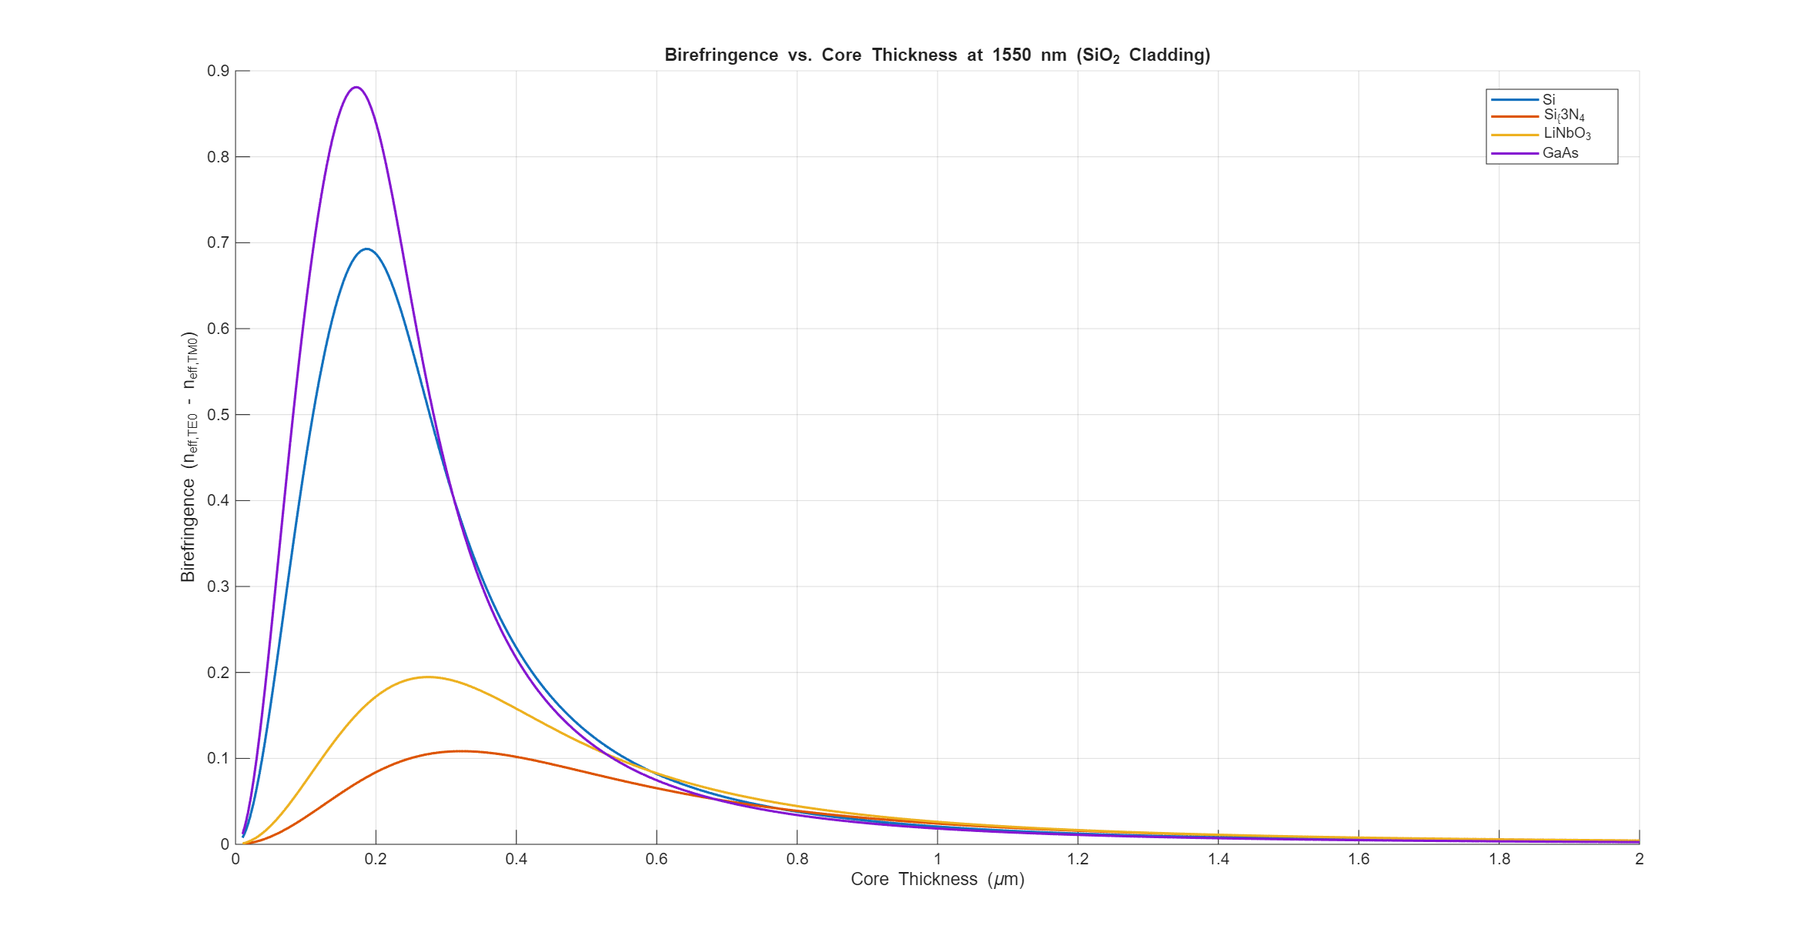
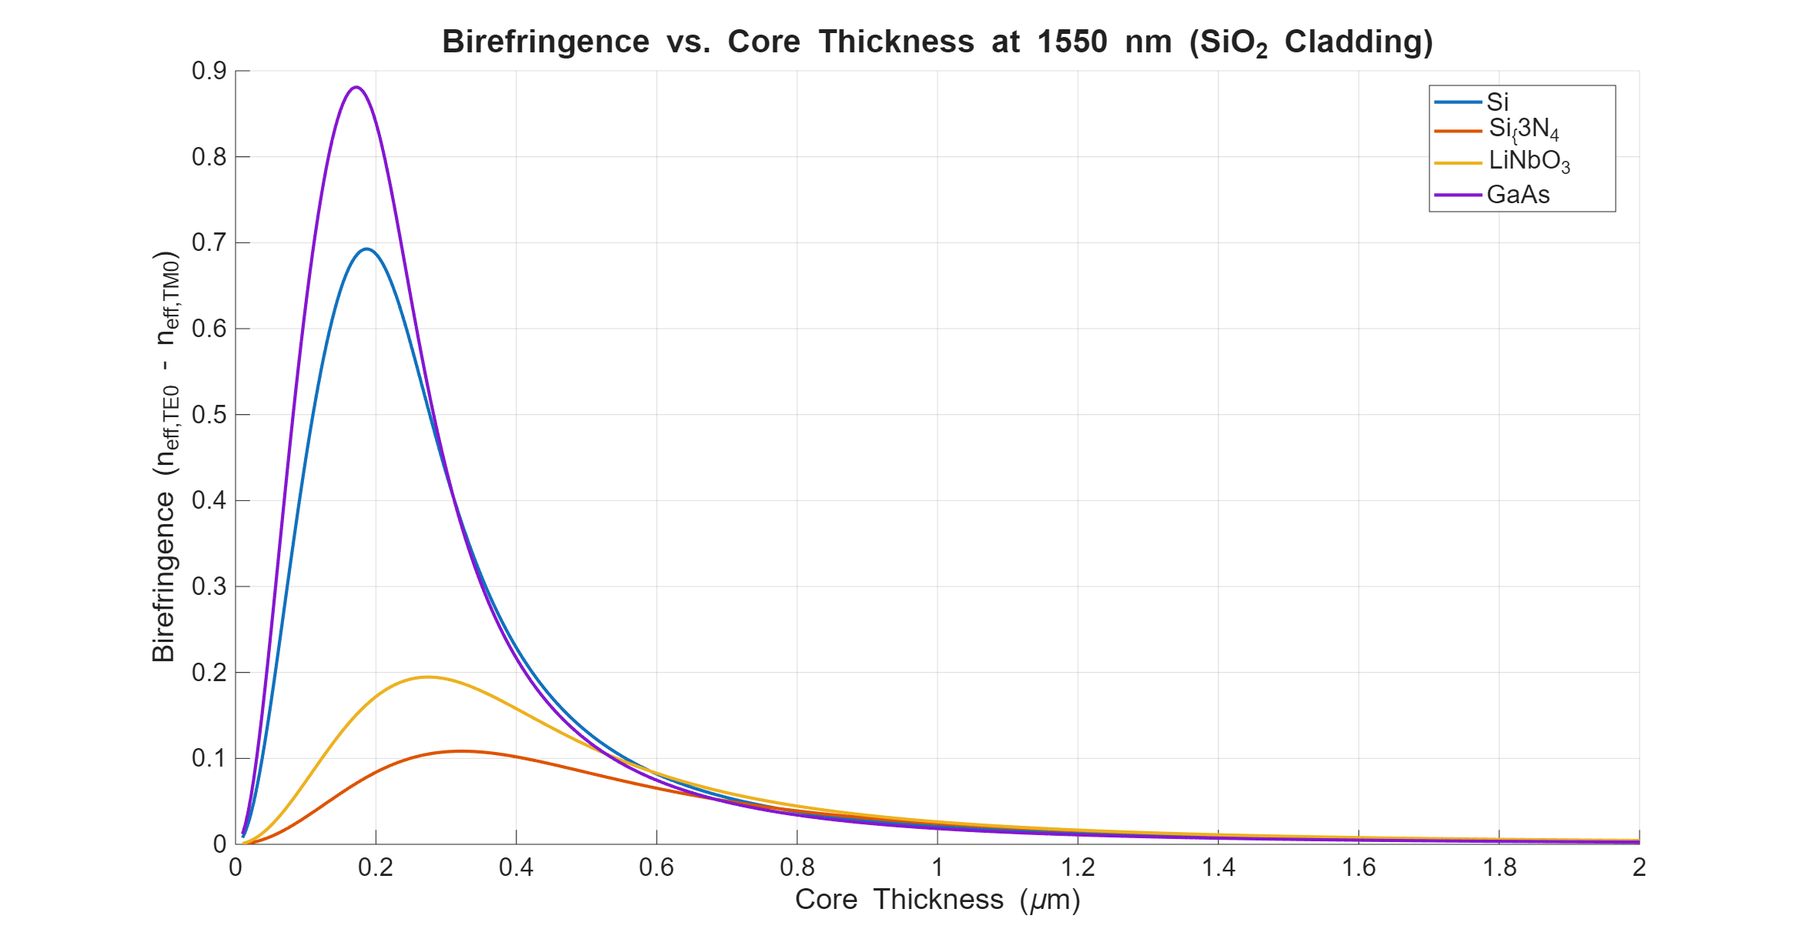
Draft interim report

diff --git a/task1.m b/task1.m
@@ -9,6 +9,9 @@ if ~exist(output_dir, 'dir')
     mkdir(output_dir);
 end
 
+% Define default line width for all plots
+defaultLineWidth = 2; % Increased line width
+
 lambda = 1550e-9; % wavelength in meters
 n_Si = sb4.get_n('Si', lambda);
 n_SiO2 = sb4.get_n('SiO2', lambda);
@@ -26,13 +29,13 @@ thicknesses = 200e-9:100e-9:1e-6; % core thicknesses from 200 nm to 1 μm
 num_modes_Si = sb4.planar.find_num_modes(n_Si, n_SiO2, thicknesses, lambda);
 
 figure;
-plot(thicknesses * 1e6, num_modes_Si, '-o');
-ax = gca; ax.FontSize = 12; % Base font size for ticks
-xlabel('Core Thickness (μm)', 'FontSize', 14);
-ylabel('Number of Supported Modes', 'FontSize', 14);
-title('Supported Modes vs Core Thickness for SOI Waveguide at 1550 nm', 'FontSize', 16);
+plot(thicknesses * 1e6, num_modes_Si, '-o', 'LineWidth', defaultLineWidth);
+ax = gca; ax.FontSize = 16; % Base font size for ticks
+xlabel('Core Thickness (μm)', 'FontSize', 18);
+ylabel('Number of Supported Modes', 'FontSize', 18);
+title('Supported Modes vs Core Thickness for SOI Waveguide at 1550 nm', 'FontSize', 20);
 grid on;
-legend('1550 nm', 'FontSize', 12);
+legend('1550 nm', 'FontSize', 16);
 saveas(gcf, fullfile(output_dir, 'modes_vs_thickness_SOI_1550nm.png'));
 
 % Repeat the above analysis using different waveguide core materials (e.g.,
@@ -49,16 +52,18 @@ num_modes_SiN = sb4.planar.find_num_modes(n_SiN, n_SiO2, thicknesses, lambda);
 num_modes_LiNbO3 = sb4.planar.find_num_modes(n_LiNbO3, n_SiO2, thicknesses, lambda);
 num_modes_GaAs = sb4.planar.find_num_modes(n_GaAs, n_SiO2, thicknesses, lambda);
 figure;
-plot(thicknesses * 1e6, num_modes_Si, '-o', ...
-    thicknesses * 1e6, num_modes_SiN, '-o', ...
-    thicknesses * 1e6, num_modes_LiNbO3, '-x', ...
-    thicknesses * 1e6, num_modes_GaAs, '-s');
-ax = gca; ax.FontSize = 12;
-xlabel('Core Thickness (μm)', 'FontSize', 14);
-ylabel('Number of Supported Modes', 'FontSize', 14);
-title('Supported Modes vs Core Thickness for Different Materials at 1550 nm', 'FontSize', 16);
+plot(thicknesses * 1e6, num_modes_Si, '-o', 'LineWidth', defaultLineWidth);
+hold on; % Ensure subsequent plots are on the same axes
+plot(thicknesses * 1e6, num_modes_SiN, '-o', 'LineWidth', defaultLineWidth);
+plot(thicknesses * 1e6, num_modes_LiNbO3, '-x', 'LineWidth', defaultLineWidth);
+plot(thicknesses * 1e6, num_modes_GaAs, '-s', 'LineWidth', defaultLineWidth);
+hold off;
+ax = gca; ax.FontSize = 16;
+xlabel('Core Thickness (μm)', 'FontSize', 18);
+ylabel('Number of Supported Modes', 'FontSize', 18);
+title('Supported Modes vs Core Thickness for Different Materials at 1550 nm', 'FontSize', 20);
 grid on;
-legend('Si', 'Si3N4', 'LiNbO3', 'GaAs', 'FontSize', 12, 'Location', 'best');
+legend('Si', 'Si3N4', 'LiNbO3', 'GaAs', 'FontSize', 16, 'Location', 'best');
 saveas(gcf, fullfile(output_dir, 'modes_vs_thickness_materials_1550nm.png'));
 % The analysis shows that silicon nitride supports more modes than silicon
 % at the same core thickness, while lithium niobate supports fewer modes.
@@ -88,13 +93,18 @@ for j = 1:length(wavelengths)
     num_modes_all(:, j) = sb4.planar.find_num_modes(n_Si_loop, n_SiO2_loop, thicknesses, lambda_loop);
 end
 figure;
-plot(thicknesses * 1e6, num_modes_all, '-o');
-ax = gca; ax.FontSize = 12;
-xlabel('Core Thickness (μm)', 'FontSize', 14);
-ylabel('Number of Supported Modes', 'FontSize', 14);
-title('Supported Modes vs Core Thickness for SOI Waveguide at Different Wavelengths', 'FontSize', 16);
+% Plot each line separately to control LineWidth for all
+hold on;
+for j = 1:length(wavelengths)
+    plot(thicknesses * 1e6, num_modes_all(:,j), '-o', 'LineWidth', defaultLineWidth, 'DisplayName', sprintf('%.0f nm', wavelengths(j) * 1e9));
+end
+hold off;
+ax = gca; ax.FontSize = 16;
+xlabel('Core Thickness (μm)', 'FontSize', 18);
+ylabel('Number of Supported Modes', 'FontSize', 18);
+title('Supported Modes vs Core Thickness for SOI Waveguide at Different Wavelengths', 'FontSize', 20);
 grid on;
-legend(arrayfun(@(x) sprintf('%.0f nm', x * 1e9), wavelengths, 'UniformOutput', false), 'FontSize', 12, 'Location', 'best');
+legend(arrayfun(@(x) sprintf('%.0f nm', x * 1e9), wavelengths, 'UniformOutput', false), 'FontSize', 16, 'Location', 'best');
 saveas(gcf, fullfile(output_dir, 'modes_vs_thickness_SOI_wavelengths.png'));
 
 
@@ -131,17 +141,17 @@ thicknesses_plot_neff = linspace(10e-9, 2000e-9, 500); % 10 nm to 1000 nm, 200 p
 
 figure; % New figure for n_eff plots
 hold on;
-ax_neff = gca; ax_neff.FontSize = 12;
-xlabel('Core Thickness (\mum)', 'FontSize', 14);
-ylabel('Effective Index (n_{eff})', 'FontSize', 14);
-title(['Effective Index vs. Core Thickness for Si/SiO2 Waveguide at ', num2str(lambda_neff*1e9), ' nm'], 'FontSize', 16);
+ax_neff = gca; ax_neff.FontSize = 16;
+xlabel('Core Thickness (\mum)', 'FontSize', 18);
+ylabel('Effective Index (n_{eff})', 'FontSize', 18);
+title(['Effective Index vs. Core Thickness for Si/SiO2 Waveguide at ', num2str(lambda_neff*1e9), ' nm'], 'FontSize', 20);
 grid on;
 
 % Add horizontal lines for n_clad and n_core
 min_thick_um = min(thicknesses_plot_neff) * 1e6;
 max_thick_um = max(thicknesses_plot_neff) * 1e6;
-plot([min_thick_um max_thick_um], [n_clad_neff n_clad_neff], 'k:', 'LineWidth', 1, 'DisplayName', 'n_{SiO_2}');
-plot([min_thick_um max_thick_um], [n_core_neff n_core_neff], 'k--', 'LineWidth', 1, 'DisplayName', 'n_{Si}');
+plot([min_thick_um max_thick_um], [n_clad_neff n_clad_neff], 'k:', 'LineWidth', defaultLineWidth, 'DisplayName', 'n_{SiO_2}');
+plot([min_thick_um max_thick_um], [n_core_neff n_core_neff], 'k--', 'LineWidth', defaultLineWidth, 'DisplayName', 'n_{Si}');
 
 % Get some distinct colors for plotting modes
 num_colors_needed = 10; % Default, adjust if many modes are expected
@@ -191,7 +201,7 @@ for m = 0:max_m_TE_neff
         plot(thicknesses_plot_neff(first_valid_idx_TE:end) * 1e6, ...
             current_neff_values_TE(first_valid_idx_TE:end), ...
             'Color', plot_colors(mod(m, num_colors_needed)+1,:), ...
-            'LineWidth', 1.5, ...
+            'LineWidth', defaultLineWidth, ...
             'DisplayName', sprintf('TE_%d', m));
     end
 end
@@ -220,14 +230,14 @@ for m = 0:max_m_TM_neff
         plot(thicknesses_plot_neff(first_valid_idx_TM:end) * 1e6, ...
             current_neff_values_TM(first_valid_idx_TM:end), ...
             '--', 'Color', plot_colors(mod(m, num_colors_needed)+1,:), ... % Dashed line for TM modes
-            'LineWidth', 1.5, ...
+            'LineWidth', defaultLineWidth, ...
             'DisplayName', sprintf('TM_%d', m));
     end
 end
 
 % Finalize plot
 ylim([n_clad_neff - 0.05, n_core_neff + 0.05]); % Set y-axis limits for better visualization
-legend('show', 'Location', 'southeast', 'FontSize', 12); % Display legend
+legend('show', 'Location', 'southeast', 'FontSize', 16); % Display legend
 hold off;
 saveas(gcf, fullfile(output_dir, 'neff_vs_thickness_Si_SiO2_1550nm.png'));
 
@@ -279,23 +289,23 @@ end
 
 figure;
 hold on;
-ax_crit_thick_modes = gca; ax_crit_thick_modes.FontSize = 12;
+ax_crit_thick_modes = gca; ax_crit_thick_modes.FontSize = 16;
 plot_colors_critical = lines(length(m_values)); % Get distinct colors
 
 for i = 1:length(m_values)
-    m = m_values(i);
+    m_loop = m_values(i); % Renamed m to m_loop to avoid conflict
     plot(plot_wavelengths * 1e9, critical_thicknesses_all_modes(i, :) * 1e9, ...
         'Color', plot_colors_critical(i,:), ...
-        'LineWidth', 1.5, ...
-        'DisplayName', sprintf('m = %d (TE_{%d}/TM_{%d})', m, m, m));
+        'LineWidth', defaultLineWidth, ...
+        'DisplayName', sprintf('m = %d (TE_{%d}/TM_{%d})', m_loop, m_loop, m_loop));
 end
 
-xlabel('Wavelength (nm)', 'FontSize', 14);
-ylabel('Critical Core Thickness (nm)', 'FontSize', 14);
-title('Critical Thickness vs. Wavelength for Si/SiO_2 Waveguide', 'FontSize', 16);
+xlabel('Wavelength (nm)', 'FontSize', 18);
+ylabel('Critical Core Thickness (nm)', 'FontSize', 18);
+title('Critical Thickness vs. Wavelength for Si/SiO_2 Waveguide', 'FontSize', 20);
 grid on;
-legend('show', 'Location', 'northwest', 'FontSize', 12);
-ylim([0, max(critical_thicknesses_all_modes(:), [], 'omitnan') * 1e9 * 1.1 + 10]); % Adjust y-limit for better view, add 10nm buffer
+legend('show', 'Location', 'northwest', 'FontSize', 16);
+ylim([0, max(critical_thicknesses_all_modes(:), [], 'omitnan') * 1e9 * 1.1]); % Adjust y-limit for better view, add 10nm buffer
 hold off;
 saveas(gcf, fullfile(output_dir, 'critical_thickness_vs_wavelength.png'));
 
@@ -334,7 +344,7 @@ end
 
 figure;
 hold on;
-ax_crit_thick_mat = gca; ax_crit_thick_mat.FontSize = 12;
+ax_crit_thick_mat = gca; ax_crit_thick_mat.FontSize = 16;
 plot_colors_multimode_materials = lines(length(core_materials)); % Get distinct colors
 
 for k = 1:length(core_materials)
@@ -345,16 +355,16 @@ for k = 1:length(core_materials)
     end
 
     plot(plot_wavelengths * 1e9, critical_thickness_multimode_materials(k, :) * 1e9, ...
-         'Color', plot_colors_multimode_materials(k,:), ...
-         'LineWidth', 1.5, ...
-         'DisplayName', display_name_formatted);
+        'Color', plot_colors_multimode_materials(k,:), ...
+        'LineWidth', defaultLineWidth, ...
+        'DisplayName', display_name_formatted);
 end
 
-xlabel('Wavelength (nm)', 'FontSize', 14);
-ylabel('Critical Thickness for Multimode (m=1) (nm)', 'FontSize', 14);
-title('Critical Thickness for Multimode Operation vs. Wavelength (SiO_2 Cladding)', 'FontSize', 16);
+xlabel('Wavelength (nm)', 'FontSize', 18);
+ylabel('Critical Thickness for Multimode (m=1) (nm)', 'FontSize', 18);
+title('Critical Thickness for Multimode Operation vs. Wavelength (SiO_2 Cladding)', 'FontSize', 20);
 grid on;
-legend('show', 'Location', 'northwest', 'Interpreter', 'tex', 'FontSize', 12);
+legend('show', 'Location', 'northwest', 'Interpreter', 'tex', 'FontSize', 16);
 % Adjust y-limit dynamically, ensuring non-negative lower bound
 min_y_val = 0;
 max_y_val = max(critical_thickness_multimode_materials(:), [], 'omitnan') * 1e9 * 1.1;
@@ -390,14 +400,14 @@ end
 
 figure; % Create a new figure for group index plots
 hold on; % Hold on to plot multiple lines
-ax_ng = gca; ax_ng.FontSize = 12;
+ax_ng = gca; ax_ng.FontSize = 16;
 
 % Calculate and plot for TE0
 valid_ng_indices_TE0 = ~isnan(neff_for_ng_TE0);
 if sum(valid_ng_indices_TE0) > 1 % Need at least 2 points for diff
     d_neff_d_lambda_TE0 = gradient(neff_for_ng_TE0(valid_ng_indices_TE0), ng_wavelengths(valid_ng_indices_TE0));
     group_index_TE0 = neff_for_ng_TE0(valid_ng_indices_TE0) - ng_wavelengths(valid_ng_indices_TE0) .* d_neff_d_lambda_TE0;
-    plot(ng_wavelengths(valid_ng_indices_TE0) * 1e9, group_index_TE0, 'LineWidth', 1.5, 'DisplayName', 'TE_0');
+    plot(ng_wavelengths(valid_ng_indices_TE0) * 1e9, group_index_TE0, 'LineWidth', defaultLineWidth, 'DisplayName', 'TE_0');
 else
     disp('Not enough valid n_eff points to calculate group index for TE0.');
 end
@@ -407,17 +417,17 @@ valid_ng_indices_TM0 = ~isnan(neff_for_ng_TM0);
 if sum(valid_ng_indices_TM0) > 1 % Need at least 2 points for diff
     d_neff_d_lambda_TM0 = gradient(neff_for_ng_TM0(valid_ng_indices_TM0), ng_wavelengths(valid_ng_indices_TM0));
     group_index_TM0 = neff_for_ng_TM0(valid_ng_indices_TM0) - ng_wavelengths(valid_ng_indices_TM0) .* d_neff_d_lambda_TM0;
-    plot(ng_wavelengths(valid_ng_indices_TM0) * 1e9, group_index_TM0, '--', 'LineWidth', 1.5, 'DisplayName', 'TM_0'); % Dashed line for TM0
+    plot(ng_wavelengths(valid_ng_indices_TM0) * 1e9, group_index_TM0, '--', 'LineWidth', defaultLineWidth, 'DisplayName', 'TM_0'); % Dashed line for TM0
 else
     disp('Not enough valid n_eff points to calculate group index for TM0.');
 end
 
 if sum(valid_ng_indices_TE0) > 1 || sum(valid_ng_indices_TM0) > 1
-    xlabel('Wavelength (nm)', 'FontSize', 14);
-    ylabel('Group Index (n_g)', 'FontSize', 14);
-    title(sprintf('Group Index vs. Wavelength (Si/SiO_2, Core Thickness = %.0f nm)', fixed_core_thickness_ng*1e9), 'FontSize', 16);
+    xlabel('Wavelength (nm)', 'FontSize', 18);
+    ylabel('Group Index (n_g)', 'FontSize', 18);
+    title(sprintf('Group Index vs. Wavelength (Si/SiO_2, Core Thickness = %.0f nm)', fixed_core_thickness_ng*1e9), 'FontSize', 20);
     grid on;
-    legend('show', 'Location', 'best', 'FontSize', 12);
+    legend('show', 'Location', 'best', 'FontSize', 16);
     saveas(gcf, fullfile(output_dir, sprintf('group_index_TE0_TM0_vs_wavelength_d%.0fnm.png', fixed_core_thickness_ng*1e9)));
 end
 hold off;
@@ -433,13 +443,13 @@ biref_lambda = 1550e-9; % Fixed wavelength
 
 figure; % Create a new figure for birefringence plots
 hold on; % Hold on to plot multiple lines
-ax_biref = gca; ax_biref.FontSize = 12;
+ax_biref = gca; ax_biref.FontSize = 16;
 plot_colors_biref_materials = lines(length(core_materials));
 
 for k_mat = 1:length(core_materials)
     current_core_mat_name = core_materials{k_mat};
     current_display_name = material_display_names{k_mat};
-    
+
     neff_TE0_biref = NaN(1, length(thicknesses_plot_neff));
     neff_TM0_biref = NaN(1, length(thicknesses_plot_neff));
 
@@ -464,7 +474,7 @@ for k_mat = 1:length(core_materials)
             end
 
             plot(thicknesses_plot_neff(valid_biref_indices) * 1e6, birefringence(valid_biref_indices), ...
-                'LineWidth', 1.5, 'Color', plot_colors_biref_materials(k_mat,:), ...
+                'LineWidth', defaultLineWidth, 'Color', plot_colors_biref_materials(k_mat,:), ...
                 'DisplayName', display_name_formatted);
         else
             fprintf('Not enough valid n_eff points to calculate birefringence for %s.\n', current_core_mat_name);
@@ -475,11 +485,11 @@ for k_mat = 1:length(core_materials)
 end
 
 if ishghandle(gcf) && ~isempty(get(gca, 'Children')) % Check if anything was plotted
-    xlabel('Core Thickness (\mum)', 'FontSize', 14);
-    ylabel('Birefringence (n_{eff,TE0} - n_{eff,TM0})', 'FontSize', 14);
-    title(sprintf('Birefringence vs. Core Thickness at %.0f nm (SiO_2 Cladding)', biref_lambda*1e9), 'FontSize', 16);
+    xlabel('Core Thickness (\mum)', 'FontSize', 18);
+    ylabel('Birefringence (n_{eff,TE0} - n_{eff,TM0})', 'FontSize', 18);
+    title(sprintf('Birefringence vs. Core Thickness at %.0f nm (SiO_2 Cladding)', biref_lambda*1e9), 'FontSize', 20);
     grid on;
-    legend('show', 'Location', 'best', 'Interpreter', 'tex', 'FontSize', 12);
+    legend('show', 'Location', 'best', 'Interpreter', 'tex', 'FontSize', 16);
     saveas(gcf, fullfile(output_dir, 'birefringence_vs_thickness_materials_1550nm.png'));
 end
 hold off;

diff --git a/src/index.tex b/src/index.tex
@@ -87,40 +87,40 @@
 \maketitle
 
 \section{Task 1: Mode analysis of a symmetric planar waveguide (SPW)}
-This section details the analysis of symmetric planar waveguides (SPWs), focusing on silicon-on-insulator (SOI) platforms and comparisons with other material systems. All simulations and plotting were performed using MATLAB. The \texttt{sb4} MATLAB package, including functionalities for obtaining material refractive indices (\texttt{sb4.get\_n}) and for planar waveguide mode analysis (\texttt{sb4.planar.find\_num\_modes}, \texttt{sb4.planar.find\_neff}), was implemented as part of this work.
+This section details the analysis of symmetric planar waveguides (SPWs), focusing on silicon-on-insulator (SOI) platforms and comparisons with other material systems. All simulations and plotting were performed using MATLAB. I implemented a helper MATLAB package called \texttt{sb4} to include functionalities for obtaining material refractive indices (\texttt{sb4.get\_n}) and for planar waveguide mode analysis (\texttt{sb4.planar.find\_num\_modes}, \texttt{sb4.planar.find\_neff}).
 
 \subsection{Silicon-on-Insulator (SOI) waveguide}
 The SOI platform, consisting of a silicon (Si) core and silicon dioxide (SiO$_2$) cladding, is a prevalent choice for integrated photonics due to its high index contrast and compatibility with CMOS manufacturing.
 
 \paragraph{Initial Mode Check at 300 nm Core}
-A symmetric SOI planar waveguide with a core thickness of 300~nm, operating at a wavelength ($\lambda$) of 1550~nm, was first analyzed. The refractive index of Si ($n_{\text{Si}}$) and SiO$_2$ ($n_{\text{SiO}_2}$) at this wavelength were determined. The analysis indicated that this waveguide supports a specific number of modes (typically 2 TE and 2 TM modes, i.e., TE$_0$, TM$_0$, TE$_1$, TM$_1$, depending on the exact refractive indices used by \texttt{sb4.get\_n}). For instance, if \texttt{sb4.planar.find\_num\_modes} returned 2 for the first element, it means TE$_0$ and TE$_1$ are supported.
+A symmetric SOI planar waveguide with a core thickness of 300~nm, operating at a wavelength ($\lambda$) of 1550~nm, was first analyzed. The refractive index of Si ($n_{\text{Si}}$) and SiO$_2$ ($n_{\text{SiO}_2}$) at this wavelength were determined. The analysis indicated that this waveguide supports a specific number of modes (typically 2 TE and 2 TM modes, i.e., TE$_0$, TM$_0$, TE$_1$, TM$_1$, depending on the exact refractive indices used by \texttt{sb4.get\_n}). Since \texttt{sb4.planar.find\_num\_modes} returned 2 for the first element, TE$_0$ and TE$_1$ should be supported.
 
 \paragraph{Mode Count vs. Core Thickness}
 The number of supported modes was investigated as a function of the Si core thickness, swept from 200~nm to 1~{\textmu}m, at $\lambda = 1550$~nm. As shown in Figure~\ref{fig:modes_vs_thickness_SOI_1550nm}, the number of supported modes increases with core thickness. This is expected, as a thicker core allows for more spatial variations of the electromagnetic field, accommodating higher-order modes.
 
 \begin{figure}[h!]
     \centering
-    \includegraphics[width=0.75\textwidth]{task1/modes_vs_thickness_SOI_1550nm.png}
+    \includegraphics[width=0.8\textwidth]{task1/modes_vs_thickness_SOI_1550nm.png}
     \caption{Number of supported modes as a function of core thickness for an SOI waveguide at $\lambda = 1550$~nm.}
     \label{fig:modes_vs_thickness_SOI_1550nm}
 \end{figure}
 
 \paragraph{Mode Count vs. Wavelength}
-The analysis was repeated for various operating wavelengths (850~nm, 1310~nm, 1550~nm, 1600~nm, 2000~nm), considering material dispersion. Figure~\ref{fig:modes_vs_thickness_SOI_wavelengths} illustrates that for a fixed core thickness, the number of supported modes generally decreases with increasing wavelength. This is because the mode confinement weakens at longer wavelengths relative to the waveguide dimensions, and the effective index contrast often reduces.
+The analysis was repeated for various operating wavelengths (850~nm, 1310~nm, 1550~nm, 1600~nm, 2000~nm), considering material dispersion. Figure~\ref{fig:modes_vs_thickness_SOI_wavelengths} illustrates that for a fixed core thickness, the number of supported modes generally decreases with increasing wavelength. This is because the mode confinement weakens at longer wavelengths relative to the waveguide dimensions, and the effective index contrast reduces.
 
 \begin{figure}[h!]
     \centering
-    \includegraphics[width=0.75\textwidth]{task1/modes_vs_thickness_SOI_wavelengths.png}
+    \includegraphics[width=0.8\textwidth]{task1/modes_vs_thickness_SOI_wavelengths.png}
     \caption{Number of supported modes vs. core thickness for an SOI waveguide at different operating wavelengths.}
     \label{fig:modes_vs_thickness_SOI_wavelengths}
 \end{figure}
 
 \paragraph{Effective Index Dispersion}
-The effective refractive index ($n_{\text{eff}}$) of TE and TM modes was calculated as a function of core thickness (10~nm to 2~{\textmu}m) for an SOI waveguide at $\lambda = 1550$~nm. Figure~\ref{fig:neff_vs_thickness_Si_SiO2_1550nm} shows these dispersion curves. For each mode, $n_{\text{eff}}$ starts near $n_{\text{SiO}_2}$ at its cutoff thickness and increases towards $n_{\text{Si}}$ as the core thickness grows. Higher-order modes appear at progressively larger core thicknesses. The solver's ability to precisely match theoretical cutoffs can be challenging where $dn_{\text{eff}}/d(\text{thickness})$ is small.
+The effective refractive index ($n_{\text{eff}}$) of TE and TM modes was calculated as a function of core thickness (10~nm to 2~{\textmu}m) for an SOI waveguide at $\lambda = 1550$~nm. Figure~\ref{fig:neff_vs_thickness_Si_SiO2_1550nm} shows these dispersion curves. For each mode, $n_{\text{eff}}$ starts near $n_{\text{SiO}_2}$ at its cutoff thickness and increases towards $n_{\text{Si}}$ as the core thickness grows. Higher-order modes appear at progressively larger core thicknesses. The solver's ability to precisely match theoretical cutoffs can be challenging where $dn_{\text{eff}}/d(\text{thickness})$ is small, which is why the modes on this plot appear slightly later than the theoremtical critical thicknesses.
 
 \begin{figure}[h!]
     \centering
-    \includegraphics[width=0.75\textwidth]{task1/neff_vs_thickness_Si_SiO2_1550nm.png}
+    \includegraphics[width=0.8\textwidth]{task1/neff_vs_thickness_Si_SiO2_1550nm.png}
     \caption{Effective index ($n_{\text{eff}}$) vs. core thickness for TE and TM modes in an Si/SiO$_2$ waveguide at $\lambda = 1550$~nm. Horizontal lines indicate $n_{\text{Si}}$ and $n_{\text{SiO}_2}$.}
     \label{fig:neff_vs_thickness_Si_SiO2_1550nm}
 \end{figure}
@@ -130,7 +130,7 @@ The theoretical critical core thickness ($d_c$) required to support a mode of or
 
 \begin{figure}[h!]
     \centering
-    \includegraphics[width=0.75\textwidth]{task1/critical_thickness_vs_wavelength.png}
+    \includegraphics[width=0.8\textwidth]{task1/critical_thickness_vs_wavelength.png}
     \caption{Critical core thickness vs. wavelength for different mode orders ($m$) in an Si/SiO$_2$ waveguide.}
     \label{fig:critical_thickness_vs_wavelength}
 \end{figure}
@@ -140,7 +140,7 @@ The group index ($n_g = n_{\text{eff}} - \lambda \frac{dn_{\text{eff}}}{d\lambda
 
 \begin{figure}[h!]
     \centering
-    \includegraphics[width=0.75\textwidth]{task1/group_index_TE0_TM0_vs_wavelength_d300nm.png}
+    \includegraphics[width=0.8\textwidth]{task1/group_index_TE0_TM0_vs_wavelength_d300nm.png}
     \caption{Group index ($n_g$) vs. wavelength for TE$_0$ and TM$_0$ modes in an Si/SiO$_2$ waveguide with a 300~nm core thickness.}
     \label{fig:group_index_TE0_TM0_vs_wavelength}
 \end{figure}
@@ -153,7 +153,7 @@ Figure~\ref{fig:modes_vs_thickness_materials_1550nm} compares the number of supp
 
 \begin{figure}[h!]
     \centering
-    \includegraphics[width=0.75\textwidth]{task1/modes_vs_thickness_materials_1550nm.png}
+    \includegraphics[width=0.8\textwidth]{task1/modes_vs_thickness_materials_1550nm.png}
     \caption{Number of supported modes vs. core thickness for different core materials (Si, Si$_3$N$_4$, LiNbO$_3$, GaAs) with SiO$_2$ cladding at $\lambda = 1550$~nm.}
     \label{fig:modes_vs_thickness_materials_1550nm}
 \end{figure}
@@ -163,7 +163,7 @@ The critical core thickness for the onset of multimode operation (i.e., cutoff o
 
 \begin{figure}[h!]
     \centering
-    \includegraphics[width=0.75\textwidth]{task1/critical_thickness_multimode_vs_wavelength_materials.png}
+    \includegraphics[width=0.8\textwidth]{task1/critical_thickness_multimode_vs_wavelength_materials.png}
     \caption{Critical core thickness for multimode operation ($m=1$ mode cutoff) vs. wavelength for different core materials with SiO$_2$ cladding.}
     \label{fig:critical_thickness_multimode_vs_wavelength_materials}
 \end{figure}
@@ -173,7 +173,7 @@ Waveguide birefringence, $\Delta n = n_{\text{eff,TE}_0} - n_{\text{eff,TM}_0}$,
 
 \begin{figure}[h!]
     \centering
-    \includegraphics[width=0.75\textwidth]{task1/birefringence_vs_thickness_materials_1550nm.png}
+    \includegraphics[width=0.8\textwidth]{task1/birefringence_vs_thickness_materials_1550nm.png}
     \caption{Birefringence ($n_{\text{eff,TE}_0} - n_{\text{eff,TM}_0}$) vs. core thickness for different core materials with SiO$_2$ cladding at $\lambda = 1550$~nm.}
     \label{fig:birefringence_vs_thickness_materials_1550nm}
 \end{figure}
